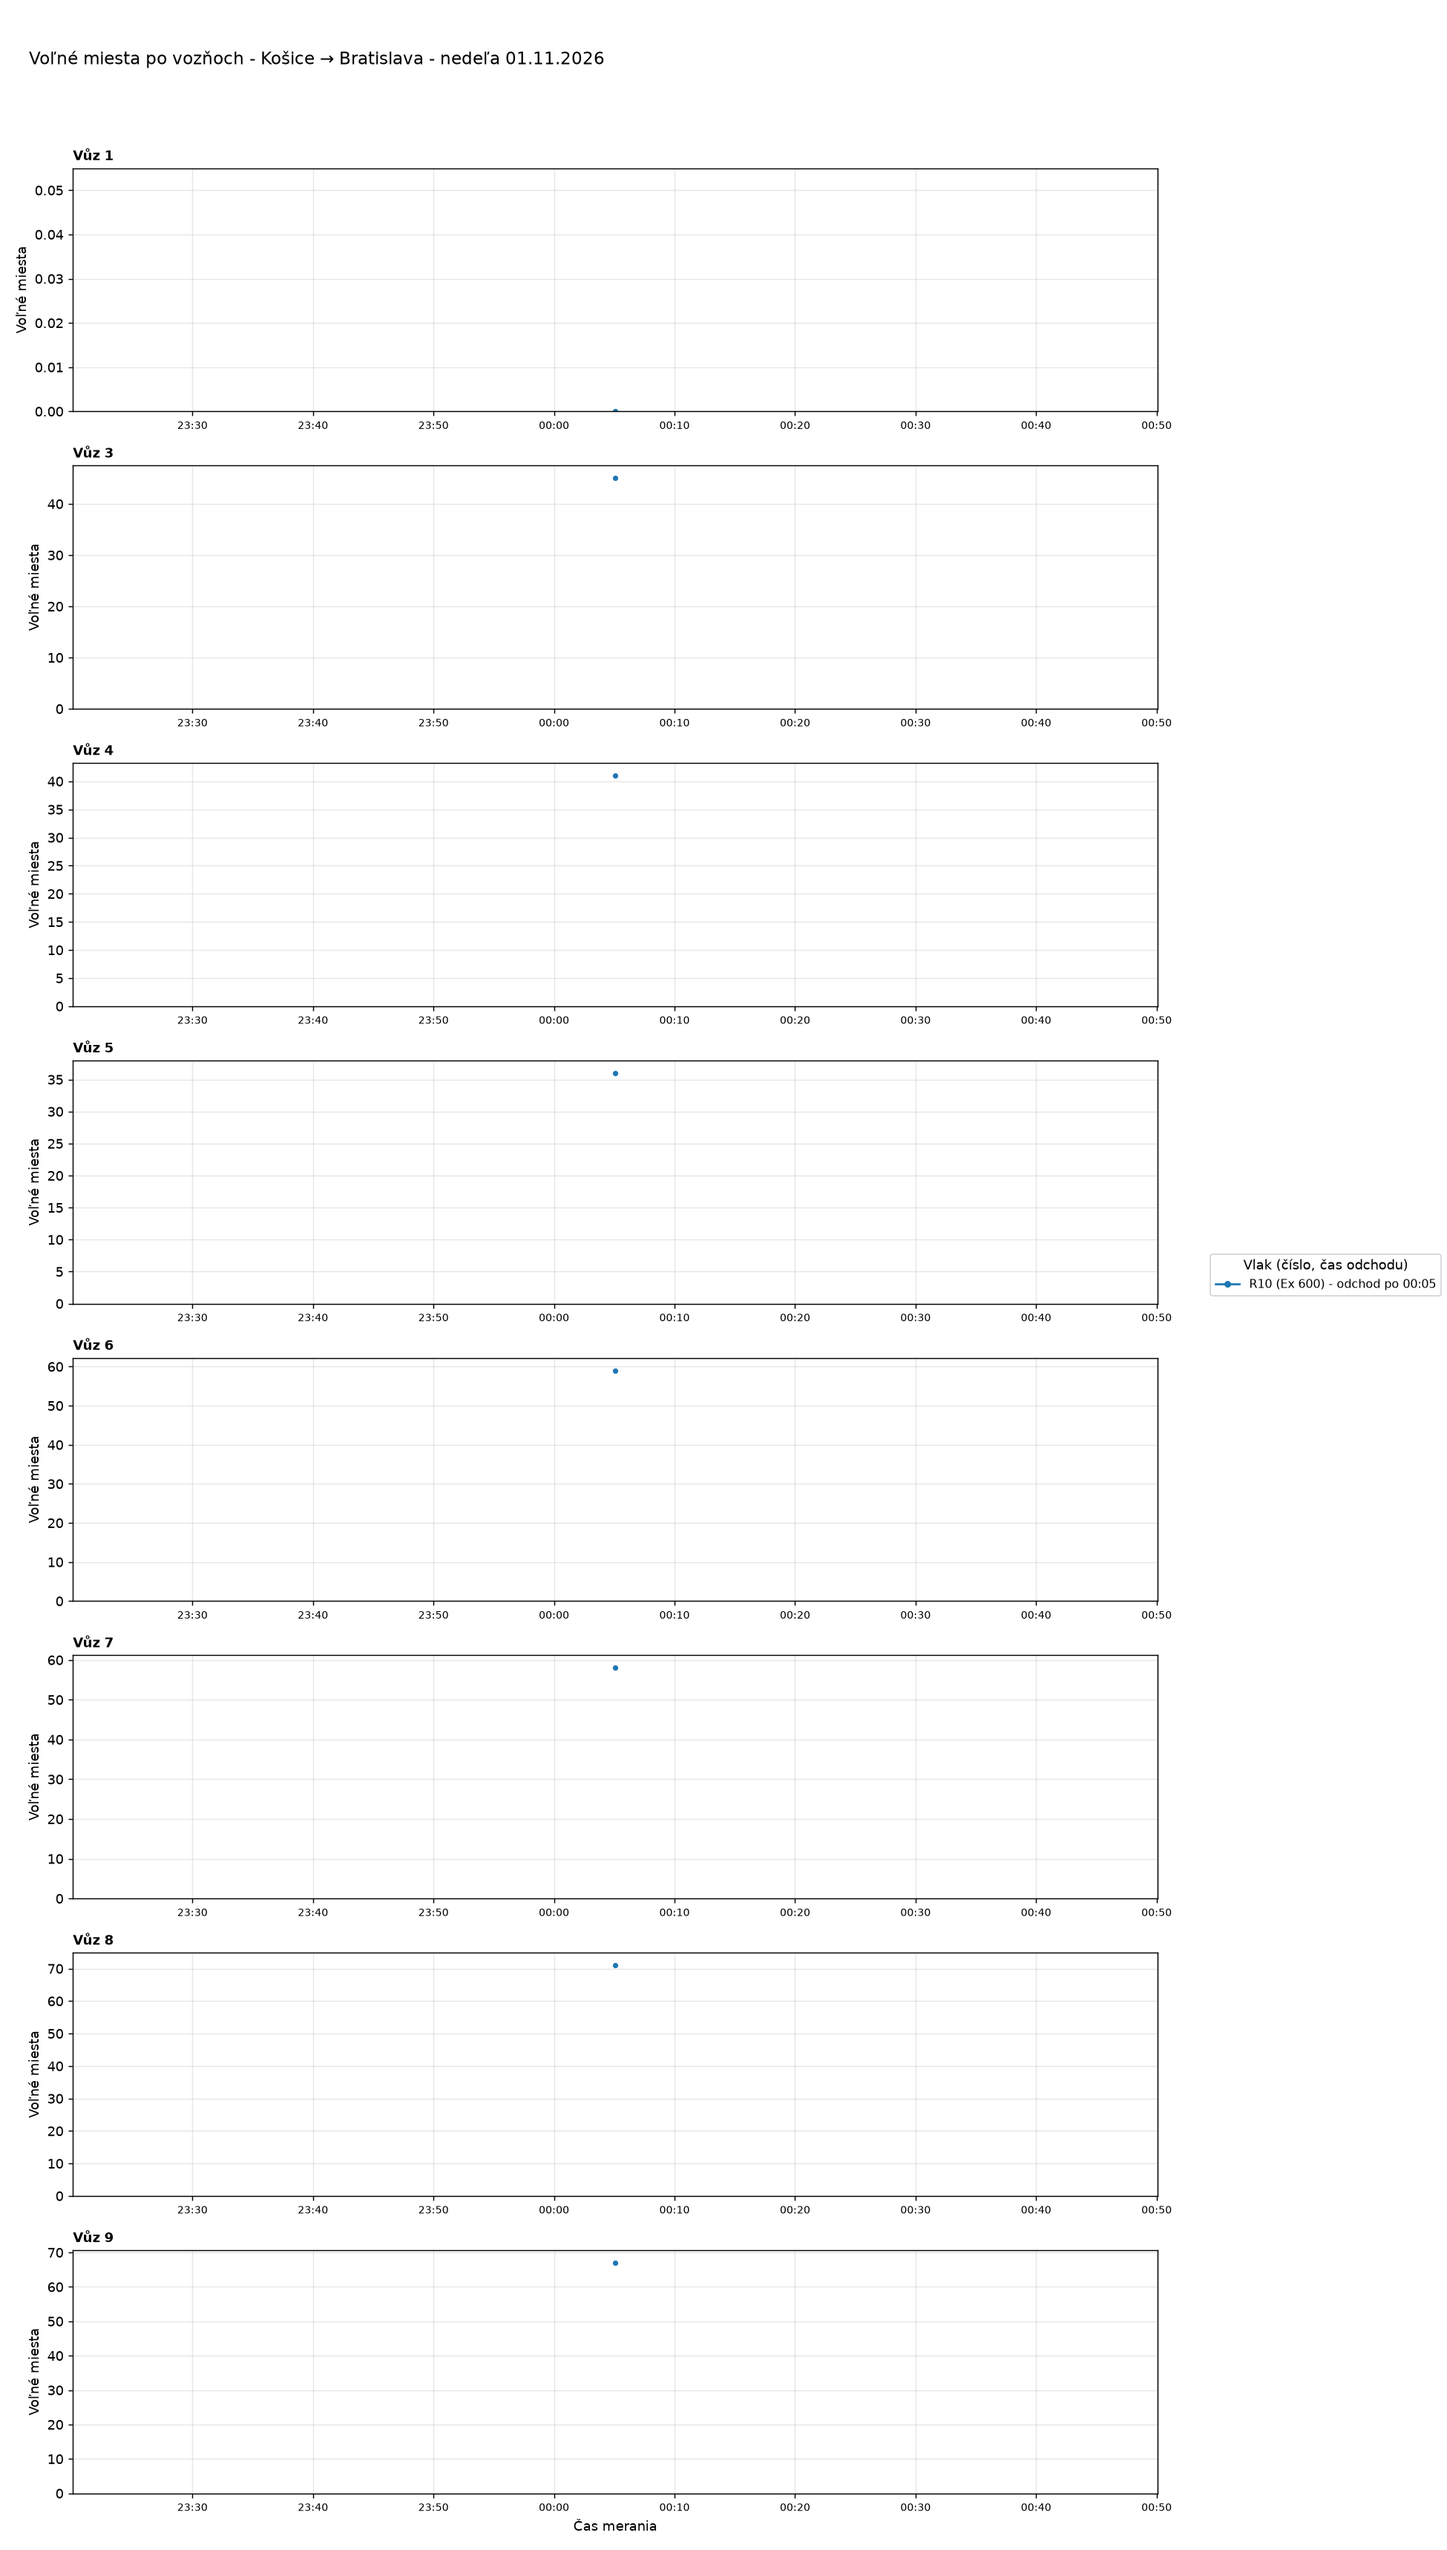
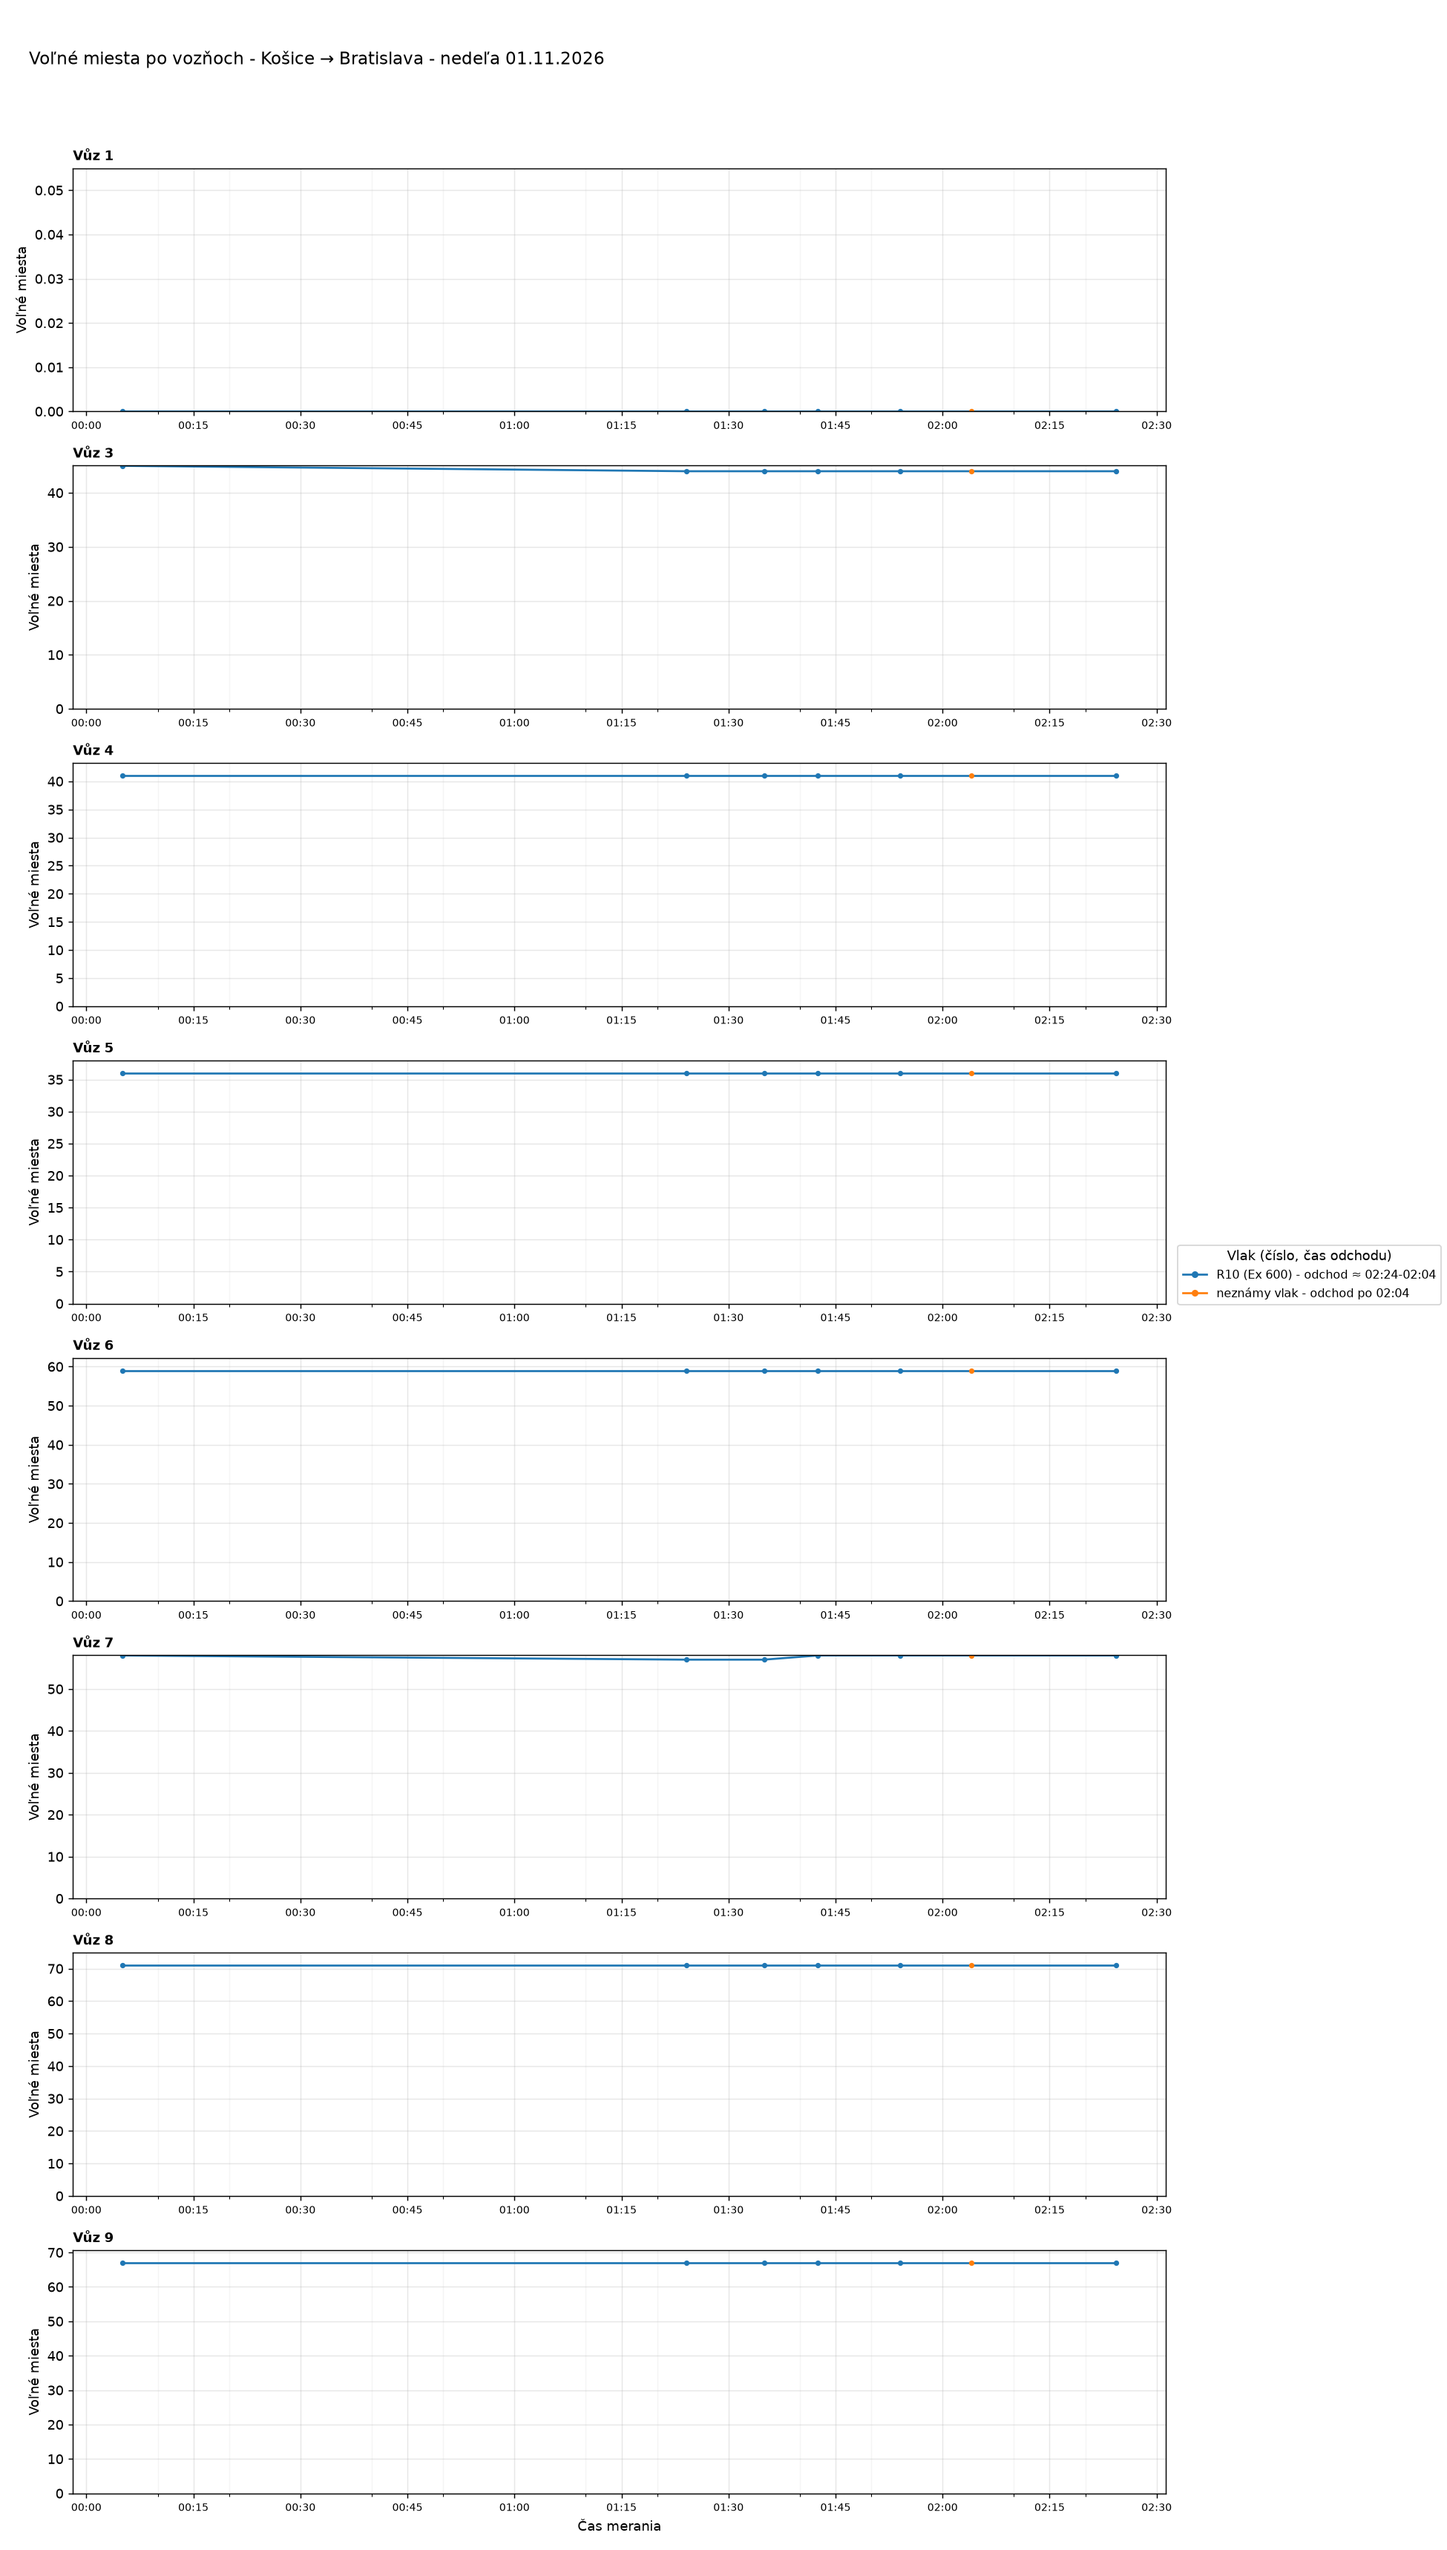
Aktualizácia grafov 2026-11-01 02:26

Changed region(s): [[0.8, 0.4671, 0.9846, 0.5294], [0.0308, 0.654, 0.0615, 0.6851]]

diff --git a/index.html b/index.html
@@ -37,7 +37,7 @@ details.trasa>summary{cursor:pointer;font-weight:600;font-size:1.1rem;padding:8p
 <body>
 <main>
 <h1>Voľné miesta vo vlakoch</h1>
-<p class="muted">Posledné meranie: 01.11.2026 01:21 ·
+<p class="muted">Posledné meranie: 01.11.2026 02:24 ·
 <a href="data/obsadenost_data.csv">stiahnuť dáta (CSV)</a></p>
 <nav class="nav"><a href="#suhrn">Súhrn</a><a href="#statistiky">Štatistiky</a><a href="#historia">História grafov</a></nav>
 
@@ -46,9 +46,9 @@ details.trasa>summary{cursor:pointer;font-weight:600;font-size:1.1rem;padding:8p
 <div class="tablewrap"><table>
 <thead><tr><th>Deň</th><th>Trasa</th><th>Meraní</th><th>Vlakov</th><th>Čas meraní</th></tr></thead>
 <tbody>
-<tr><td><a href="#dBA-VR-2026-11-01">nedeľa 01.11.2026</a></td><td>Bratislava → Vrútky</td><td>2</td><td>1</td><td>00:01-01:21</td></tr>
-<tr><td><a href="#dBA-KE-2026-11-01">nedeľa 01.11.2026</a></td><td>Bratislava → Košice</td><td>1</td><td>1</td><td>00:12-00:12</td></tr>
-<tr><td><a href="#dKE-BA-2026-11-01">nedeľa 01.11.2026</a></td><td>Košice → Bratislava</td><td>1</td><td>1</td><td>00:05-00:05</td></tr>
+<tr><td><a href="#dBA-VR-2026-11-01">nedeľa 01.11.2026</a></td><td>Bratislava → Vrútky</td><td>7</td><td>1</td><td>00:01-02:22</td></tr>
+<tr><td><a href="#dBA-KE-2026-11-01">nedeľa 01.11.2026</a></td><td>Bratislava → Košice</td><td>7</td><td>1</td><td>00:12-02:23</td></tr>
+<tr><td><a href="#dKE-BA-2026-11-01">nedeľa 01.11.2026</a></td><td>Košice → Bratislava</td><td>7</td><td>2</td><td>00:05-02:24</td></tr>
 <tr><td><a href="#dBA-VR-2026-10-31">sobota 31.10.2026</a></td><td>Bratislava → Vrútky</td><td>60</td><td>12</td><td>00:21-23:11</td></tr>
 <tr><td><a href="#dVR-BA-2026-10-31">sobota 31.10.2026</a></td><td>Vrútky → Bratislava</td><td>52</td><td>13</td><td>02:42-20:42</td></tr>
 <tr><td><a href="#dBA-KE-2026-10-31">sobota 31.10.2026</a></td><td>Bratislava → Košice</td><td>56</td><td>11</td><td>00:23-23:03</td></tr>
